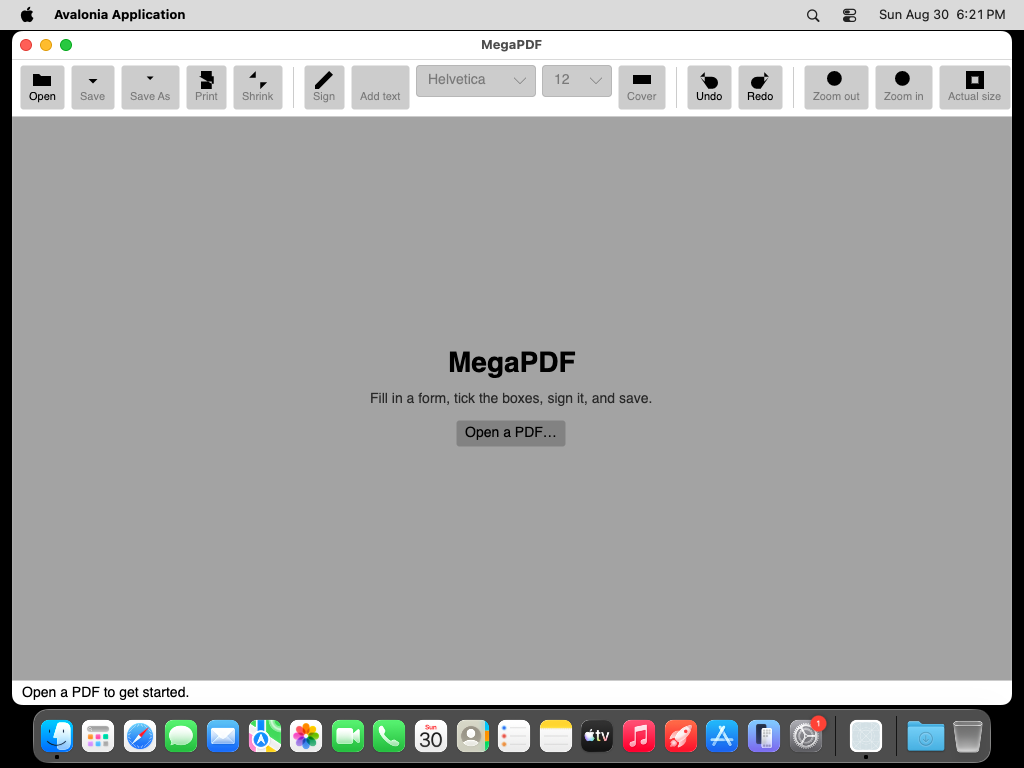
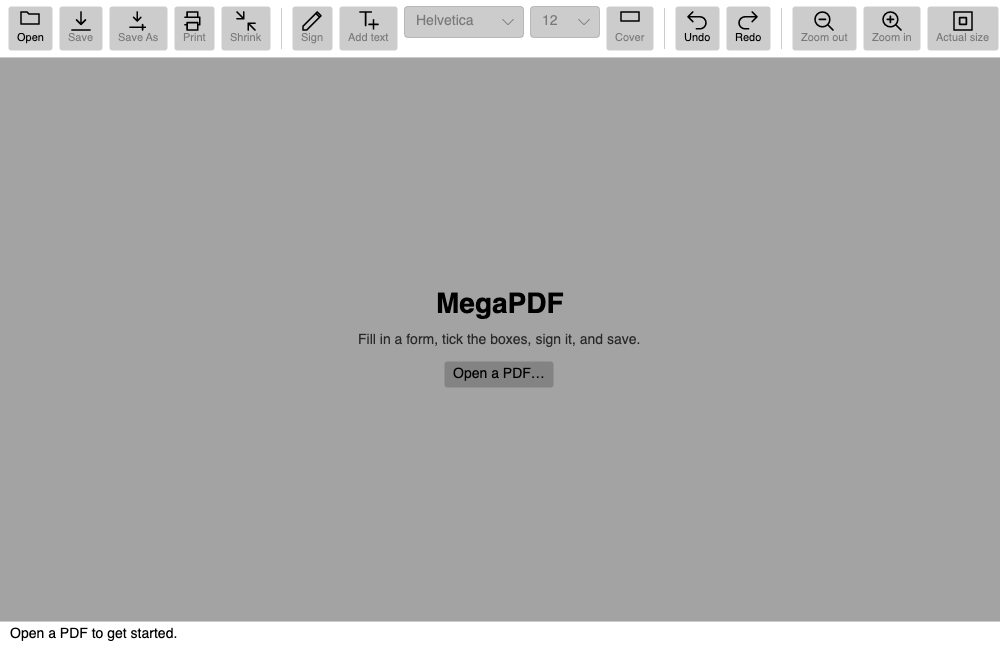
Add design.md, written from the repository
A design document with nothing invented in it. Product name, tagline and feature
order come from the README; principles and terminology from the SDD; palette
from assets/branding; type and spacing collected out of the XAML; voice quoted
from the actual status strings.

Three things surfaced by reading rather than assuming.

The brand palette exists and no application uses it. assets/branding carries a
deliberate blue-to-cyan identity with an ink colour and page tones; the macOS
app picked #3B82F6 and #1D4ED8 with no reference to it. That is the largest
identity gap in the product and it is invisible until the two are put side by
side.

The README leads with "Edit text" as the thing the product does best. Every app
leads with viewing, and the edit affordance is the fourth button along. One of
the two is wrong.

And principle P5 reads "It looks like Windows 11", written when there was one
Windows app. There are four now. What it was reaching for still holds; the
wording does not.

The document also separates design tokens from contract values that look like
them — the 235 luminance cutoff, the 6-24pt checkbox range, the 0.25 squareness
tolerance are SDD 6.2 contracts, and a designer changing one would break four
platforms. Listed so nobody tries.

Refreshes docs/design-assets with screenshots taken after the icon fixes.

Claude-Session: https://claude.ai/code/session_013sNbNHhkbbDB83RkGkdQCz

Changed region(s): [[0.0, 0.0, 1.0, 1.0], [0.341, 0.4334, 0.651, 0.6192]]

diff --git a/design.md b/design.md
@@ -1,0 +1,229 @@
+# MegaPDF — design
+
+Everything here is taken from the repository. Where the repo and this document
+disagree, the repo is right and this is stale.
+
+---
+
+## The product, in its own words
+
+> **Open. Fix. Save. Done.**
+>
+> *— `README.md`, under the logo*
+
+> A free, open-source, lightweight PDF editor built for people who find Acrobat
+> too bloated and complex.
+>
+> *— `README.md`, first line*
+
+Four things, deliberately nothing else. The README's own order, which is not the
+order the apps present them in:
+
+1. **Edit text** — click any text in the document and type, like editing a Word file
+2. **Check boxes** — click an empty square and it becomes a checked box
+3. **Apply signatures** — keep a small library; drag one onto the page
+4. **Save** — Save overwrites, Save As creates a copy. No export wizards, no "flatten" dialogs
+
+Plus **Find**, added later because long documents need it.
+
+> No account. No cloud. No subscription. All processing is local.
+
+That last line is a design constraint as much as a promise: **there is no sign-in
+screen to design, and there never will be.**
+
+---
+
+## What organises the page
+
+Read `src/MegaPDF.Core/Engine/IPdfEngine.cs` and the product's shape is not a
+timeline, a catalog or a pipeline. It is **a surface you point at**. Every core
+type is the same triple — an identity, a rectangle, and some state:
+
+```csharp
+public sealed record StampInfo(string Id, PdfRect Bounds);
+public sealed record PdfFormField(string Name, FormFieldKind Kind, PdfRect Bounds, string Value, bool IsChecked);
+public sealed record PdfTextRun(int ObjectIndex, string Text, PdfRect Bounds, string FontName, double FontSize, ...);
+```
+
+and the central operation is:
+
+```csharp
+/// <summary>What is under this point? Drives cursor affordances and click routing.</summary>
+PageHit HitTest(PdfPoint point);
+```
+
+`PageHit` is the whole interaction model. Everything the user can do is "point at
+a rectangle and act on what is there". The product spec says the same thing in
+words:
+
+> **P2 — The document is the interface.** Users interact with the page itself
+> (click text, click boxes, drop signatures), not with tool palettes that change
+> what a click means.
+
+**So the page dominates, and chrome earns its place.** Any design that grows the
+toolbar at the page's expense is working against the product's own shape.
+
+---
+
+## The five principles the design answers to
+
+From `SDD.md` §1.3, which states they override feature requests:
+
+| | |
+|---|---|
+| **P1** | Zero learning curve — *"If a feature needs explaining, the design is wrong."* |
+| **P2** | The document is the interface |
+| **P3** | Never lose work, never surprise |
+| **P4** | Small and fast — under 60 MB installed, under 200 MB idle, sub-2s cold start |
+| **P5** | *"It looks like Windows 11."* |
+
+**P5 is now wrong and should be rewritten.** It was authored when the product was
+one Windows app. There are four: Windows (WinUI 3), macOS (Avalonia), iOS
+(SwiftUI), Android (Compose). The principle it was reaching for — *look native to
+the machine you are on* — still holds; the wording does not.
+
+---
+
+## Visual identity, as it exists
+
+### The mark
+
+`assets/branding/icon.svg`, with its own comments describing the construction:
+
+- a **Windows 11 style tile**, `256×256`, corner radius `58`
+- a **document with a folded corner**, in `#D6E7F8` on `#C9DCEF` text lines
+- and then, in the file's own words: *"The one stroke: a calligraphic check,
+  curved entry, straight rise"* — `M92 148c8 4 18 13 30 24L168 104`
+
+That single stroke is the idea: not a document, a **document that has been dealt
+with**. Whatever replaces it should keep that thought.
+
+### Palette
+
+From `assets/branding/*.svg` — the only place a deliberate palette exists:
+
+| Token | Value | Where |
+|---|---|---|
+| Brand blue | `#0E6FD8` | gradient start, wordmark |
+| Brand cyan | `#18B6C8` | gradient end, wordmark |
+| Tile blue | `#0A5BC4` → `#0FA8C6` | icon tile gradient |
+| Ink | `#16324F` | "Mega" wordmark, light theme |
+| Ink, dark theme | `#F2F7FC` | same, via `prefers-color-scheme` |
+| Page | `#D6E7F8` | document face in the mark |
+| Page lines | `#C9DCEF` | text lines in the mark |
+
+**None of these colours appear in any of the four applications.** The macOS app
+uses `#3B82F6` and `#1D4ED8` for selection and focus, chosen by a developer with
+no reference to the brand. That is the single largest identity gap in the
+product: there is a palette, it is good, and nothing uses it.
+
+### Ink
+
+One value is shared across every platform and is not a preference — it is what
+the user's marks are drawn in:
+
+```
+#202020   check marks, drawn signature ink
+```
+
+It appears in `PdfiumEngine` (mark stroke), `SignaturePad` (drawn ink), and the
+Android and iOS engines. Near-black rather than black, so a mark reads as ink on
+paper rather than as UI.
+
+### Contract values that are not style
+
+These look like design tokens and are not. They are cross-platform behavioural
+contracts (`SDD.md` §6.2) — changing one is a breaking change on four platforms:
+
+| | | |
+|---|---|---|
+| `235` | white-luminance cutoff | signature background removal |
+| `16` | ink alpha cutoff | signature trim |
+| `4` | trim margin, px | signature trim |
+| `6`–`24` | drawn checkbox size, pt | which squares read as tickable |
+| `0.25` | squareness tolerance | same |
+| `150` | target DPI | shrink for email |
+
+A designer may not change these. They are listed so nobody tries.
+
+### Type and spacing, as currently used
+
+Collected from `src/MegaPDF.Avalonia/Views/*.axaml` — descriptive, not
+prescriptive, and the spread shows nobody has set a scale:
+
+- **11** — toolbar labels (16 uses)
+- **12** — helper text under a setting
+- **13** — the signature dialog's rule marker
+- **16** — recovery dialog headline
+- **28** — empty-state product name
+
+- **3** — icon-to-label gap (16 uses)
+- **6, 8, 14** — toolbar groups, dialog stacks, empty-state stack
+- **8,6** and **10,5** — toolbar and status-bar padding
+- **16** — gap between pages in the document view
+- **24** — `MatchScroll.Margin`, how close a search hit may sit to the edge
+
+There is no scale here, only values that were reasonable one at a time. **A real
+type and spacing scale is wanted** and does not exist.
+
+---
+
+## Voice
+
+The app talks in short sentences aimed at someone holding a form. Real strings,
+from `MainViewModel`:
+
+- *"Open a PDF to get started."*
+- *"demo.pdf — 1 page. Click a checkbox to tick it."*
+- *"Drag to move, corners to resize, Delete to remove."*
+- *"Click where the new text should go — Esc cancels"*
+- *"That text is part of a scanned image, so it cannot be edited. You can cover it
+  and type over the top instead."*
+- *"Reopen this document before shrinking it."*
+
+Two habits worth keeping: it says what will happen next, and when it refuses it
+says why **and offers the thing that would work**. It never names an internal
+concept — no "AcroForm", no "annotation", no "object index" — even though the code
+is full of them.
+
+Terminology the product uses for itself: the task is **fill-check-sign-save**
+(`SDD.md` §1.3). The persona is **"Pat, the office administrator"** (§2.1) — not
+technical, does this a few times a week, resents every minute.
+
+---
+
+## Where the current design falls short
+
+Honest reading of `docs/design-assets/` (screenshots produced by
+`macos-screenshots.yml`), listed so a designer does not have to be tactful:
+
+1. **The brand is absent from the product.** See the palette above.
+2. **The README leads with *Edit text*; every app leads with viewing.** The thing
+   the product says it is best at is the fourth button along and looks like a
+   text cursor. Either the README's order is wrong or the toolbar's is.
+3. **Sixteen toolbar actions in one row**, plus two dropdowns, all equal weight.
+   Nothing signals that Sign matters more than Actual size.
+4. **The empty state is mostly grey.** Right words, right order, doing nothing
+   with the space — and it is the first thing a new user sees.
+5. **The Mac app has no icon at all.** No `CFBundleIconFile`; it shows the generic
+   blank document in Finder and the Dock. That is a defect, tracked in #73.
+6. **`P5` names one OS.** See above.
+
+---
+
+## What is fixed and what is open
+
+**Fixed — technical constraints, not preferences:**
+
+- macOS cannot use an icon font. Windows draws its toolbar from Segoe MDL2, which
+  does not exist on macOS; bundling a font for sixteen glyphs adds a licence and a
+  download. **Vector source is required.**
+- Every app follows the OS light/dark setting. Four states per icon: enabled and
+  disabled, light and dark.
+- Toolbar glyphs render at **18×18** points on a **24-unit** grid.
+- Meaning is never carried by colour alone — the app is fully keyboard-driven
+  (#2) and used with screen readers.
+- The contract values above cannot move.
+
+**Open — everything else**, including the toolbar's arrangement, the empty state,
+the type scale, whether icons are stroked or filled, and the mark itself.
